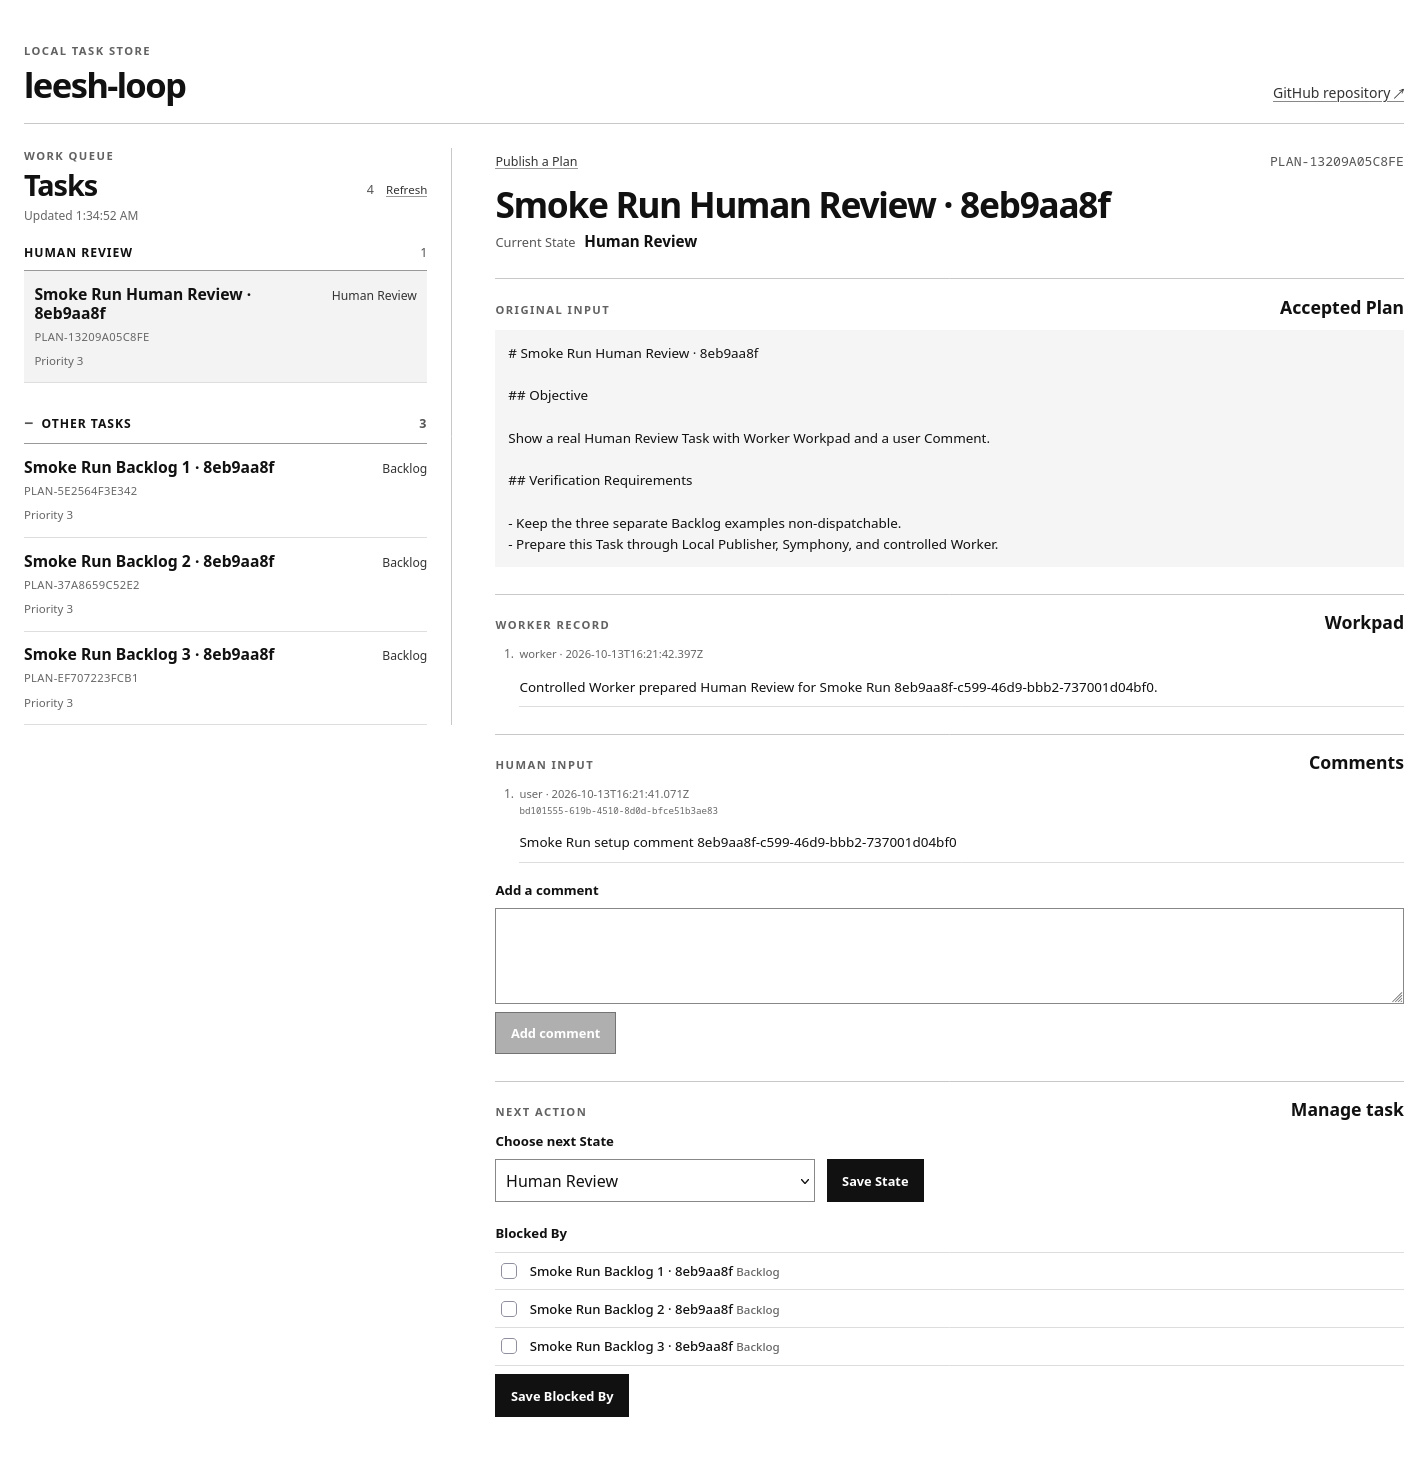
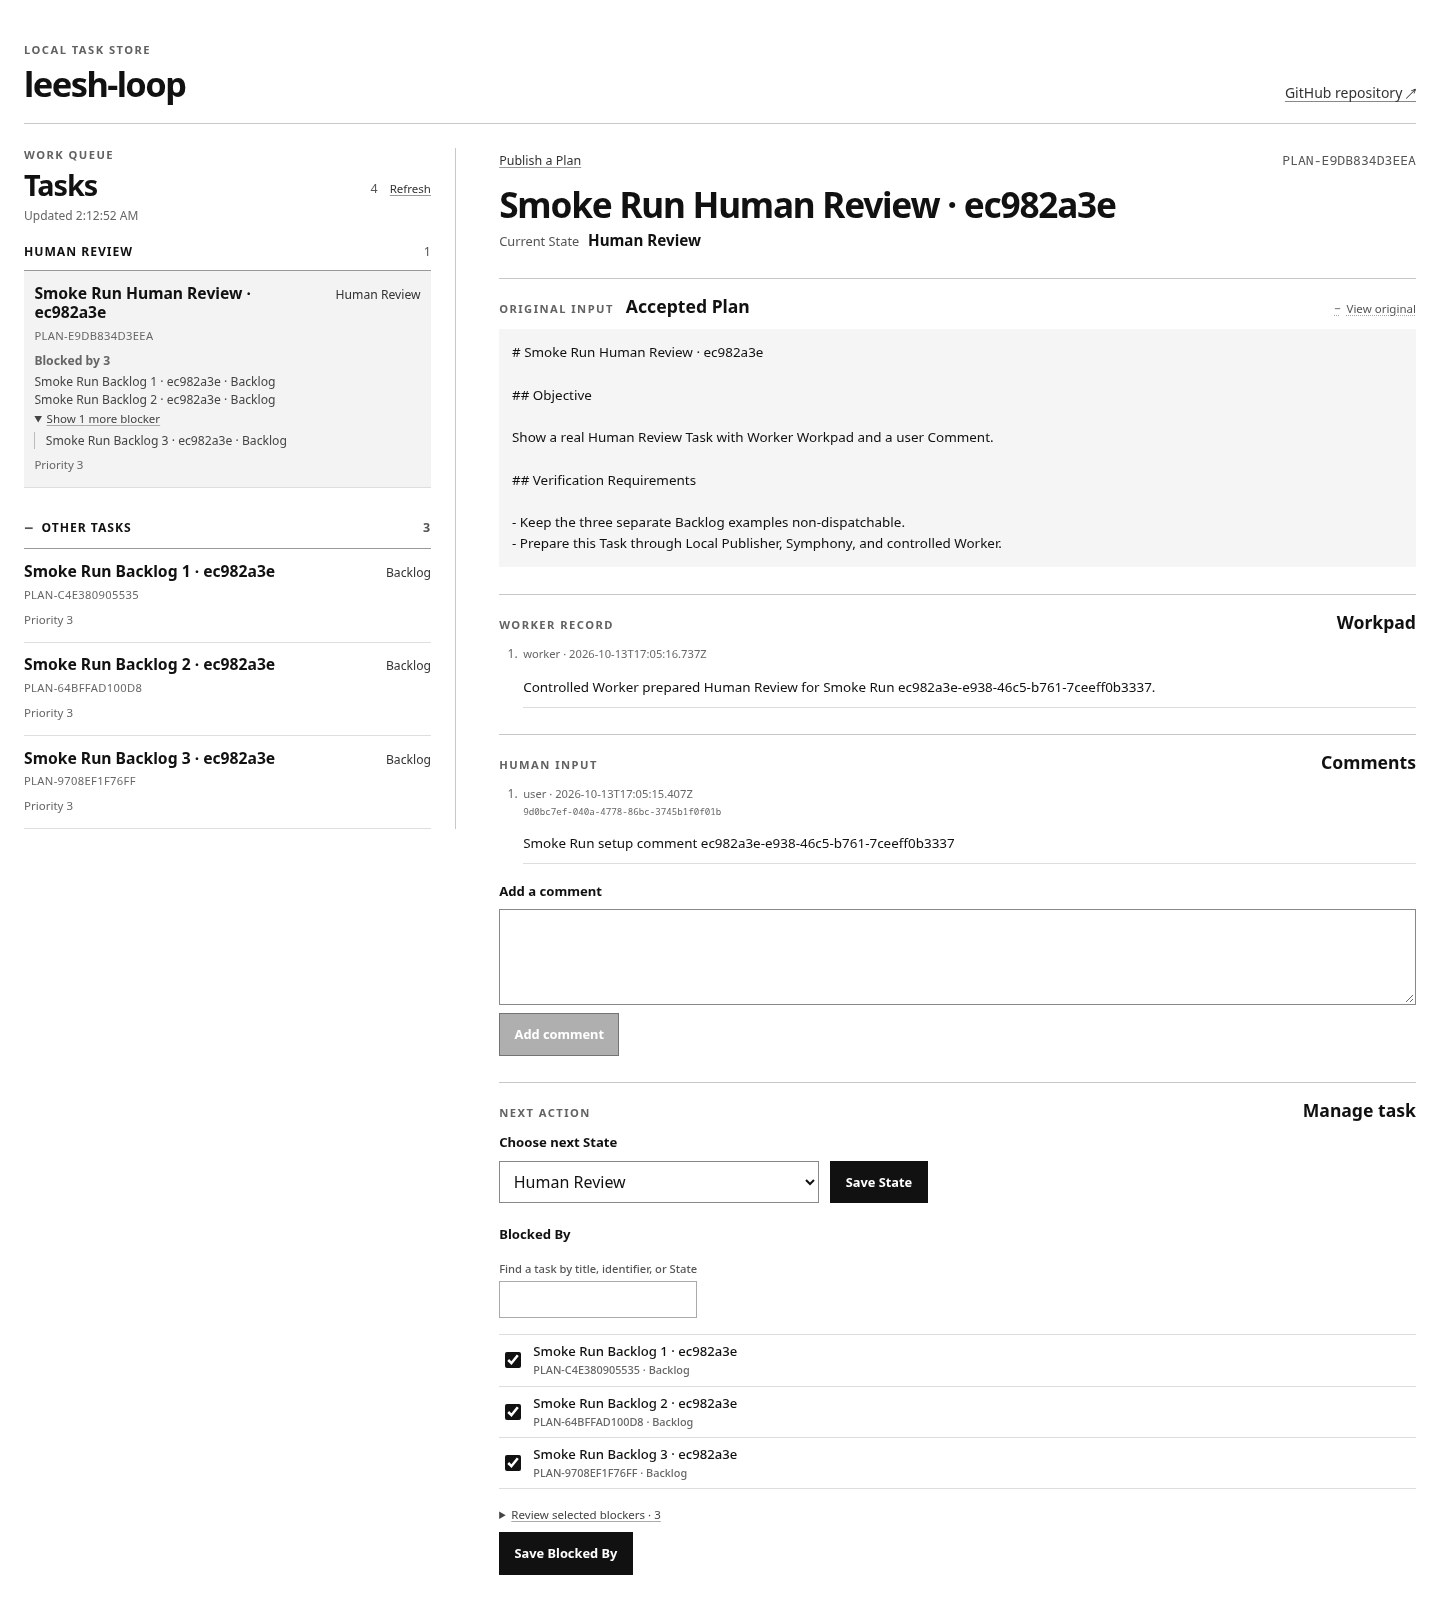
Refine blocker navigation and collapse Accepted Plan

diff --git a/operator/ui/src/main.jsx b/operator/ui/src/main.jsx
@@ -24,14 +24,71 @@ function TaskCard({ task, selected, onSelect }) {
         <span className="task-open-state">{task.state}</span>
       </button>
       <p className="task-identifier">{task.identifier}</p>
-      {task.blockedBy.length > 0 && (
-        <p className="task-blockers"><span>Blocked by</span> {task.blockedBy.map(blocker => `${blocker.title} · ${blocker.state}`).join(', ')}</p>
-      )}
+      {task.blockedBy.length > 0 && <BlockerSummary blockers={task.blockedBy} />}
       <div className="task-metadata">
         {task.priority !== null && <span>Priority {task.priority}</span>}
         {task.labels.map(label => <span key={label}>{label}</span>)}
       </div>
     </article>
+  );
+}
+
+function BlockerSummary({ blockers }) {
+  const visibleBlockers = blockers.slice(0, 2);
+  const remainingBlockers = blockers.slice(visibleBlockers.length);
+  return (
+    <div className="task-blockers">
+      <span className="task-blockers-count">Blocked by {blockers.length}</span>
+      <ul className="task-blocker-preview">
+        {visibleBlockers.map(blocker => <li key={blocker.taskId || blocker.id}>{blocker.title} · {blocker.state}</li>)}
+      </ul>
+      {remainingBlockers.length > 0 && (
+        <details className="all-blockers">
+          <summary>Show {remainingBlockers.length} more {remainingBlockers.length === 1 ? 'blocker' : 'blockers'}</summary>
+          <ul>{remainingBlockers.map(blocker => <li key={blocker.taskId || blocker.id}>{blocker.title} · {blocker.state}</li>)}</ul>
+        </details>
+      )}
+    </div>
+  );
+}
+
+function BlockerOptions({ tasks, selectedItems, onToggle, disabled }) {
+  const [query, setQuery] = useState('');
+  const selectedIds = new Set(selectedItems.map(item => item.id));
+  const normalizedQuery = query.trim().toLowerCase();
+  const matchingTasks = tasks.filter(task => !normalizedQuery || [task.title, task.identifier, task.state]
+    .some(value => String(value || '').toLowerCase().includes(normalizedQuery)));
+
+  return (
+    <>
+      <label className="blocker-search">
+        <span>Find a task by title, identifier, or State</span>
+        <input type="search" value={query} onChange={event => setQuery(event.target.value)} disabled={disabled} />
+      </label>
+      {matchingTasks.length ? (
+        <div className="blocker-options">
+          {matchingTasks.map(task => (
+            <label className="blocker-option" key={task.id}>
+              <input type="checkbox" checked={selectedIds.has(task.id)} disabled={disabled} onChange={() => onToggle(task)} />
+              <span>{task.title} <small>{task.identifier} · {task.state}</small></span>
+            </label>
+          ))}
+        </div>
+      ) : <p className="quiet">No tasks match this search.</p>}
+      {selectedItems.length > 0 && (
+        <details className="selected-blockers">
+          <summary>Review selected blockers · {selectedItems.length}</summary>
+          <ul>
+            {selectedItems.map(item => (
+              <li key={item.id}>
+                <span>{item.title} <small>{item.identifier} · {item.state}</small></span>
+                <button type="button" className="text-button" onClick={() => onToggle(item)} disabled={disabled}>Remove</button>
+              </li>
+            ))}
+          </ul>
+        </details>
+      )}
+    </>
   );
 }
 
@@ -88,7 +145,7 @@ function TaskSurface({ tasks, selectedTaskId, loading, error, refreshedAt, onRet
   );
 }
 
-function PublicationSurface({ config, plan, state, selectedBlockers, publishing, onDraftChange, onRemoveBlocker, onReset, onPublished }) {
+function PublicationSurface({ config, plan, state, selectedBlockers, publishing, onDraftChange, onReset, onPublished }) {
   const [result, setResult] = useState(null);
 
   useEffect(() => {
@@ -139,19 +196,13 @@ function PublicationSurface({ config, plan, state, selectedBlockers, publishing,
           <legend>Blocked By</legend>
           <p className="field-help">Choose tasks that must finish before this task can run.</p>
           {config.tasks.length ? (
-            <div className="blocker-options">
-              {config.tasks.map(task => {
-                const checked = selectedBlockers.some(value => value.taskId === task.id);
-                return (
-                  <label className="blocker-option" key={task.id}>
-                    <input type="checkbox" checked={checked} disabled={publishing} onChange={() => onDraftChange({ togglePublishBlocker: task })} />
-                    <span>{task.title} <small>{task.state}</small></span>
-                  </label>
-                );
-              })}
-            </div>
+            <BlockerOptions
+              tasks={config.tasks}
+              selectedItems={selectedBlockers.map(value => ({ id: value.taskId, title: value.title, identifier: value.identifier, state: value.state }))}
+              onToggle={task => onDraftChange({ togglePublishBlocker: task })}
+              disabled={publishing}
+            />
           ) : <p className="quiet">No existing tasks to select.</p>}
-          {selectedBlockers.length > 0 && <p className="selected-blockers-count">{selectedBlockers.length} selected</p>}
         </fieldset>
         <div className="publish-controls">
           <div>
@@ -295,10 +346,9 @@ function TaskDetail({ config, taskId, publicationReceipt, onBackToPublish, onTas
   if (loading && !task) return <section className="work-panel" aria-busy="true"><p className="empty-state">Loading task detail…</p></section>;
   if (!task) return <section className="work-panel"><button type="button" className="text-button" onClick={onBackToPublish}>Back to Plan publication</button><p className="inline-message failure" role="alert">{refreshError || 'Task detail is unavailable.'}</p><button type="button" className="text-button" onClick={refresh}>Try again</button></section>;
 
-  const blockerIds = new Set(blockerDraft);
   const availableBlockers = config.tasks.filter(value => value.id !== taskId);
-  const knownBlockerIds = new Set(availableBlockers.map(value => value.id));
-  const missingBlockers = blockerDraft.filter(id => !knownBlockerIds.has(id));
+  const selectedBlockerItems = blockerDraft.map(id => availableBlockers.find(value => value.id === id)
+    || { id, title: id, identifier: id, state: 'Unavailable' });
   const stateOptions = config.states.includes(task.state) ? config.states : [task.state, ...config.states];
 
   return (
@@ -320,10 +370,13 @@ function TaskDetail({ config, taskId, publicationReceipt, onBackToPublish, onTas
       {refreshError && <p className="inline-message failure" role="status">Refresh failed. Showing the last successful detail. {refreshError}</p>}
       {message && <p className={`inline-message ${message.kind}`} role={message.kind === 'failure' ? 'alert' : 'status'}>{message.text}</p>}
 
-      <section className="detail-section" aria-labelledby="accepted-plan-heading">
-        <div className="section-title"><p className="eyebrow">Original input</p><h3 id="accepted-plan-heading">Accepted Plan</h3></div>
+      <details className="detail-section accepted-plan-section" aria-labelledby="accepted-plan-heading">
+        <summary className="section-title">
+          <span className="section-title-copy"><span className="eyebrow">Original input</span><h3 id="accepted-plan-heading">Accepted Plan</h3></span>
+          <span className="disclosure-hint">View original</span>
+        </summary>
         <pre className="long-text">{task.acceptedPlan}</pre>
-      </section>
+      </details>
 
       <section className="detail-section" aria-labelledby="workpad-heading">
         <div className="section-title"><p className="eyebrow">Worker record</p><h3 id="workpad-heading">Workpad</h3></div>
@@ -366,17 +419,14 @@ function TaskDetail({ config, taskId, publicationReceipt, onBackToPublish, onTas
           </div>
         </form>
         <form className="management-form" onSubmit={saveBlockers}>
-          <label>Blocked By</label>
-          {missingBlockers.map(id => <p className="quiet" key={id}>Existing blocker {id}</p>)}
-          {availableBlockers.length ? (
-            <div className="blocker-options">
-              {availableBlockers.map(value => (
-                <label className="blocker-option" key={value.id}>
-                  <input type="checkbox" checked={blockerIds.has(value.id)} onChange={() => setBlockerDraft(current => current.includes(value.id) ? current.filter(id => id !== value.id) : [...current, value.id])} disabled={saving === 'blockers'} />
-                  <span>{value.title} <small>{value.state}</small></span>
-                </label>
-              ))}
-            </div>
+          <span className="field-label">Blocked By</span>
+          {availableBlockers.length || selectedBlockerItems.length ? (
+            <BlockerOptions
+              tasks={availableBlockers}
+              selectedItems={selectedBlockerItems}
+              onToggle={value => setBlockerDraft(current => current.includes(value.id) ? current.filter(id => id !== value.id) : [...current, value.id])}
+              disabled={saving === 'blockers'}
+            />
           ) : <p className="quiet">No other tasks are available as blockers.</p>}
           <button type="submit" disabled={saving === 'blockers'}>{saving === 'blockers' ? 'Saving…' : 'Save Blocked By'}</button>
         </form>
@@ -504,7 +554,6 @@ function App() {
               const { publishing: _publishing, ...draftValues } = values;
               updateDraft(draftValues);
             }}
-            onRemoveBlocker={taskId => updateDraft({ selectedBlockers: selectedBlockers.filter(value => value.taskId !== taskId) })}
             onReset={resetDraft}
             onPublished={openPublishedTask}
           />

diff --git a/operator/ui/src/style.css b/operator/ui/src/style.css
@@ -47,8 +47,11 @@ h3 { margin-bottom: 0; font-size: 1rem; line-height: 1.3; font-weight: 650; }
 .task-open-title { min-width: 0; font-size: .98rem; line-height: 1.25; font-weight: 600; overflow-wrap: anywhere; }
 .task-open-state { flex: 0 0 auto; color: #333; font-size: .76rem; text-align: right; }
 .task-identifier { margin: .28rem 0 0; color: #666; font-size: .7rem; letter-spacing: .03em; overflow-wrap: anywhere; }
-.task-blockers { margin: .5rem 0 0; color: #444; font-size: .76rem; line-height: 1.4; overflow-wrap: anywhere; }
-.task-blockers span { color: #666; font-weight: 650; }
+.task-blockers { display: grid; justify-items: start; gap: .2rem; margin: .5rem 0 0; color: #444; font-size: .76rem; line-height: 1.4; overflow-wrap: anywhere; }
+.task-blockers-count { color: #666; font-weight: 650; }
+.task-blocker-preview, .all-blockers ul { display: grid; gap: .1rem; margin: 0; padding: 0; list-style: none; }
+.all-blockers > summary, .selected-blockers > summary { color: #444; cursor: pointer; font-size: .72rem; text-decoration: underline; text-decoration-color: #aaa; text-underline-offset: .2em; }
+.all-blockers ul { max-height: 13rem; margin-top: .3rem; padding: 0 .5rem 0 .65rem; overflow: auto; border-left: 1px solid #bbb; overscroll-behavior: contain; }
 .task-metadata { display: flex; flex-wrap: wrap; gap: .3rem .8rem; margin-top: .45rem; color: #666; font-size: .72rem; }
 .remaining-tasks > summary { display: flex; justify-content: space-between; align-items: center; gap: 1rem; padding: .25rem 0 .5rem; border-bottom: 1px solid #999; cursor: pointer; list-style: none; font-size: .76rem; font-weight: 650; letter-spacing: .08em; text-transform: uppercase; }
 .remaining-tasks > summary::-webkit-details-marker { display: none; }
@@ -70,11 +73,17 @@ select { min-height: 2.65rem; padding: .4rem .6rem; }
 .form-section { min-width: 0; margin: 1.35rem 0 0; padding: 0; border: 0; }
 .form-section legend { margin-bottom: .15rem; padding: 0; }
 .field-help { margin: .2rem 0 .65rem; color: #666; font-size: .75rem; }
+.blocker-search { display: grid; gap: .25rem; margin: .45rem 0; color: #555; font-size: .7rem; font-weight: 500; }
+.blocker-search input { width: 100%; min-height: 2.3rem; padding: .35rem .55rem; border: 1px solid #aaa; border-radius: 0; background: #fff; color: #111; font: inherit; }
 .blocker-options { display: grid; max-height: 13rem; overflow: auto; border-top: 1px solid #ddd; }
 .blocker-option { display: flex; min-height: 2.35rem; align-items: center; gap: .6rem; padding: .45rem .1rem; border-bottom: 1px solid #ddd; font-weight: 450; }
 .blocker-option input { width: 1rem; height: 1rem; accent-color: #111; }
-.blocker-option small { color: #666; font-size: .72rem; }
-.selected-blockers-count { margin: .45rem 0 0; color: #555; font-size: .72rem; }
+.blocker-option span { min-width: 0; overflow-wrap: anywhere; }
+.blocker-option small, .selected-blockers small { display: block; color: #666; font-size: .68rem; }
+.selected-blockers { margin-top: .5rem; }
+.selected-blockers ul { display: grid; max-height: 13rem; gap: .25rem; margin: .4rem 0 0; padding: 0 .4rem 0 0; overflow: auto; list-style: none; overscroll-behavior: contain; }
+.selected-blockers li { display: flex; align-items: baseline; justify-content: space-between; gap: .75rem; padding: .25rem 0; border-bottom: 1px solid #ddd; font-size: .75rem; }
+.selected-blockers li > span { min-width: 0; overflow-wrap: anywhere; }
 .publish-controls { display: grid; grid-template-columns: minmax(10rem, .8fr) minmax(12rem, 1fr); align-items: end; gap: 1rem; margin-top: 1.35rem; }
 .publish-controls > div { display: grid; gap: .4rem; }
 .primary-action, .comment-form button, .management-form button { min-height: 2.65rem; padding: .5rem .9rem; border: 1px solid #111; background: #111; color: #fff; font-size: .8rem; font-weight: 600; }
@@ -94,6 +103,14 @@ select { min-height: 2.65rem; padding: .4rem .6rem; }
 .section-title { display: flex; align-items: baseline; justify-content: space-between; gap: 1rem; margin-bottom: .7rem; }
 .section-title .eyebrow { margin-bottom: 0; }
 .section-title h3 { font-size: 1.1rem; }
+.accepted-plan-section > summary { cursor: pointer; list-style: none; }
+.accepted-plan-section > summary::-webkit-details-marker { display: none; }
+.section-title-copy { display: flex; align-items: baseline; gap: .75rem; min-width: 0; }
+.disclosure-hint { color: #555; font-size: .72rem; text-decoration: underline; text-decoration-color: #aaa; text-underline-offset: .2em; }
+.disclosure-hint::before { content: '+'; margin-right: .35rem; text-decoration: none; }
+.accepted-plan-section[open] .disclosure-hint::before { content: '−'; }
+.accepted-plan-section[open] .disclosure-hint { text-decoration-style: dotted; }
+.accepted-plan-section[open] > summary { margin-bottom: .7rem; }
 .long-text { max-width: 100%; margin: 0; overflow-wrap: anywhere; white-space: pre-wrap; font-family: inherit; font-size: .84rem; line-height: 1.58; }
 .detail-section > .long-text { padding: .8rem; background: #f5f5f5; }
 .record-list { display: grid; min-width: 0; gap: .9rem; margin: 0; padding-left: 1.35rem; }
@@ -109,6 +126,7 @@ select { min-height: 2.65rem; padding: .4rem .6rem; }
 .management-section { display: grid; gap: 1.35rem; }
 .management-section > .section-title { margin-bottom: -.7rem; }
 .management-form { display: grid; justify-items: start; gap: .55rem; }
+.field-label { font-size: .82rem; font-weight: 650; }
 .inline-controls { display: flex; width: 100%; align-items: center; gap: .7rem; }
 .inline-controls select { max-width: 20rem; }
 .inline-controls button { flex: 0 0 auto; }
@@ -137,6 +155,7 @@ select { min-height: 2.65rem; padding: .4rem .6rem; }
   .detail-topline { align-items: flex-start; flex-wrap: wrap; }
   .detail-identifier { flex-basis: 100%; text-align: left; }
   .section-title { align-items: flex-start; flex-direction: column; gap: .25rem; }
+  .section-title-copy { align-items: flex-start; flex-direction: column; gap: .1rem; }
 }
 
 @media (max-width: 420px) {
